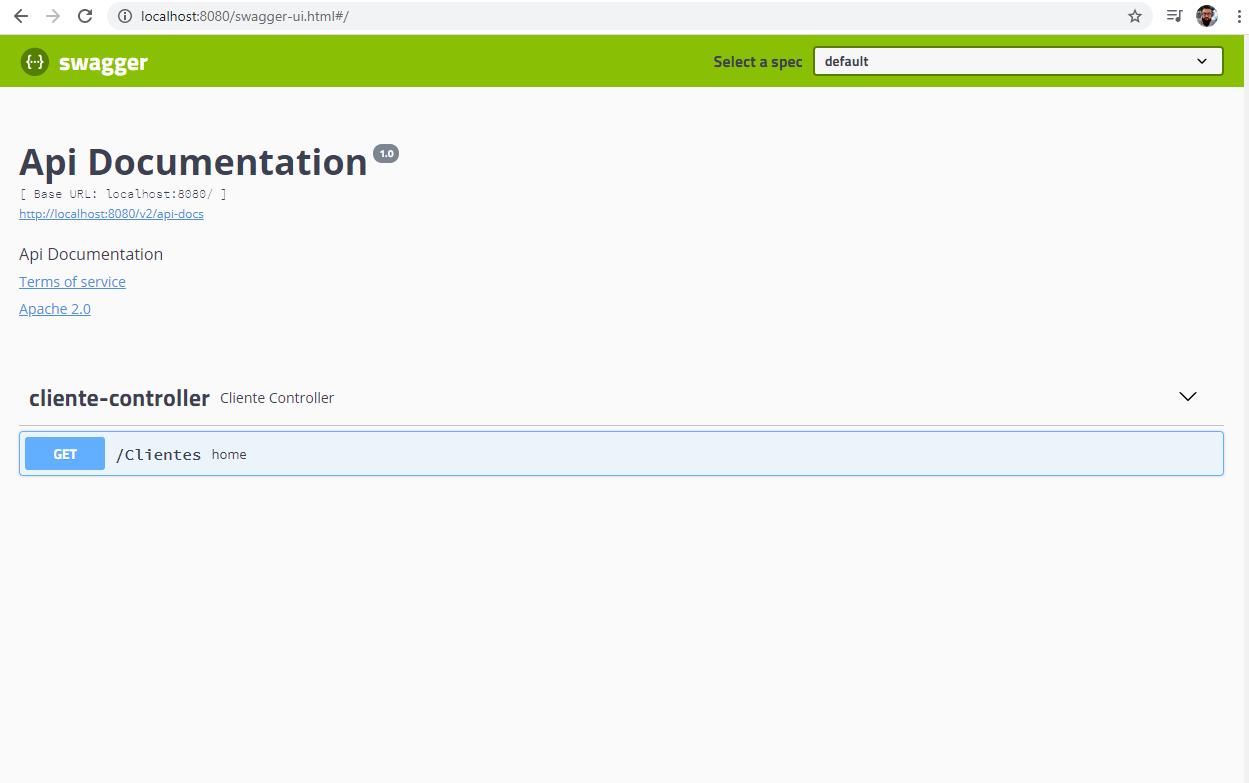
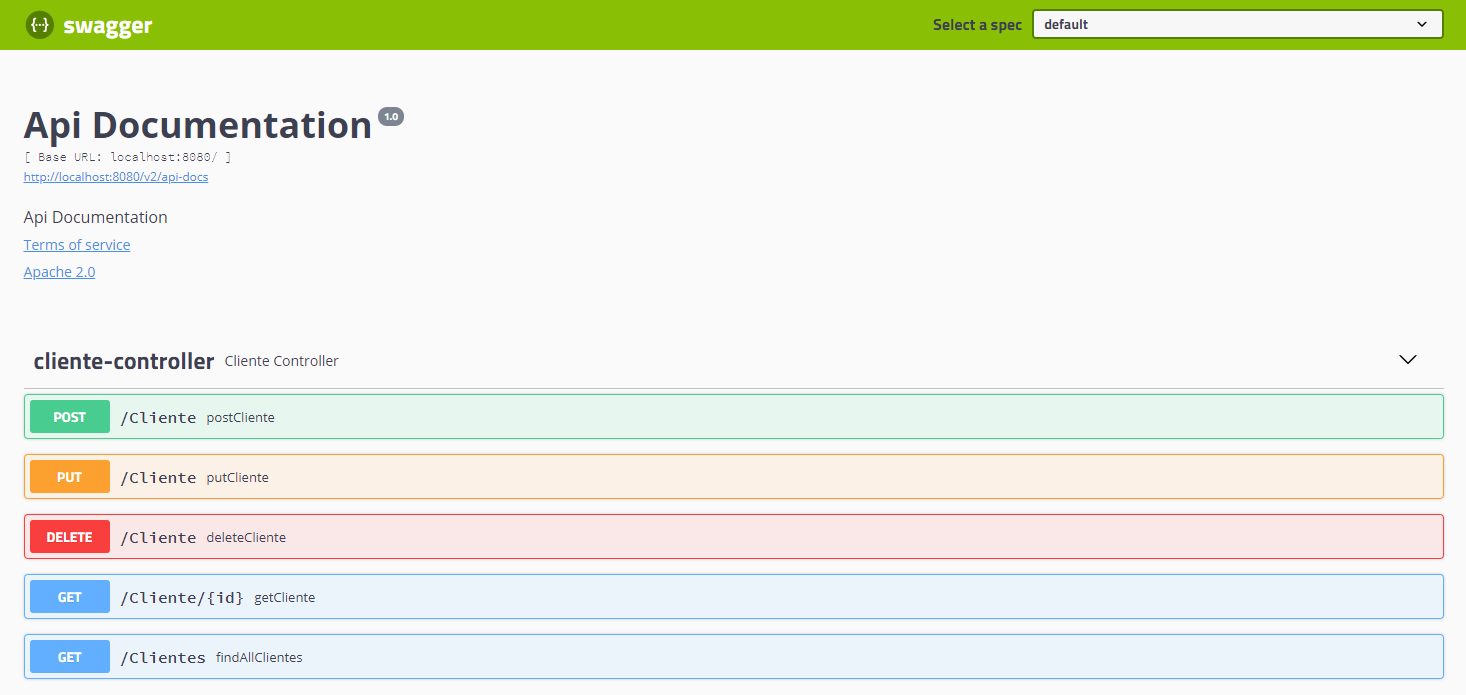
crud na base de dados

Changed region(s): [[0.0, 0.4835, 0.9992, 0.9669], [0.0, 0.0, 1.0, 0.1209], [0.0, 0.1511, 0.3435, 0.423]]

diff --git a/src/main/kotlin/com/example/KotlinApp/controller/ClienteController.kt b/src/main/kotlin/com/example/KotlinApp/controller/ClienteController.kt
@@ -1,15 +1,40 @@
 package com.example.KotlinApp.controller
 
-import org.springframework.web.bind.annotation.RequestMapping
-import org.springframework.web.bind.annotation.GetMapping
-import org.springframework.web.bind.annotation.RestController
+import org.springframework.web.bind.annotation.*
+
 
 @RestController
-@RequestMapping( "/Clientes")
 class ClienteController
 {
-    @GetMapping
-    fun home(): String
+
+
+    @GetMapping("/Clientes")
+    fun findAllClientes(): String
+    {
+        return "teste"
+    }
+
+    @GetMapping("/Cliente/{id}")
+    @ResponseBody
+    fun getCliente(): String
+    {
+        return "teste"
+    }
+
+    @PostMapping(value = ["/Cliente"])
+    fun postCliente(): String
+    {
+        return "teste"
+    }
+
+    @DeleteMapping(value = ["/Cliente"])
+    fun deleteCliente(): String
+    {
+        return "teste"
+    }
+
+    @PutMapping(value = ["/Cliente"])
+    fun putCliente(): String
     {
         return "teste"
     }
